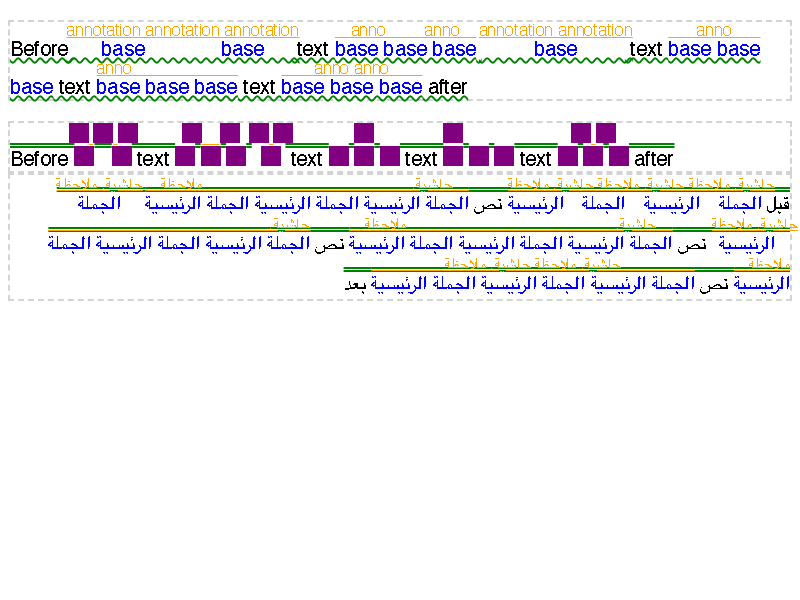
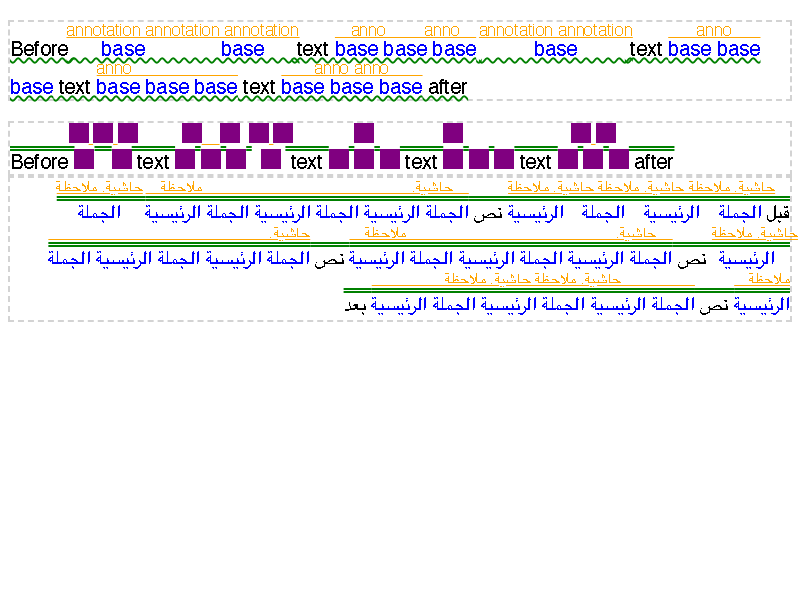
ruby: Fix text decorations overlapping annotations
An underline or overline of a ruby base was drawn at the edge of the
base's em box, which is exactly where the first annotation is placed, so
the two overlapped. It was most visible in vertical writing mode with
lang="ja", where text-underline-position resolves to "over" and an
underline is flipped onto the same side as the annotation.

css-ruby says the decoration is positioned between the base level and
any annotations on that side, so the annotation is what has to move.
RubyBlockPositionCalculator now starts the annotation stack at whichever
is farther from the baseline, the base's em box or the outer edge of the
base's own decorations. The extent comes from
ComputeUnderOverDecorationBounds(), which builds the real decoration
geometry so that wavy amplitude, double offsets and thickness are
accounted for rather than approximated.

The new behavior is behind the RubyTextDecorationSpacing runtime flag.

Each test pairs a transparent decoration with a mismatch reference
holding the same markup without it, so the only thing that can differ
between the two is the annotation position. Pinning the offsets instead
would assert placement that no specification defines.

Tests:
- fast/ruby/ruby-text-decoration-001.html (New, overline, over side)
- fast/ruby/ruby-text-decoration-002.html (New, overline, vertical-rl)
- fast/ruby/ruby-text-decoration-003.html (New, underline, under side)
- fast/ruby/ruby-text-decoration-004.html (New, both lines and sides)
[…]

Changed region(s): [[0.0, 0.24, 1.0, 0.54]]

diff --git a/web_tests/fast/ruby/ruby-text-decoration-004.html b/web_tests/fast/ruby/ruby-text-decoration-004.html
@@ -1,0 +1,24 @@
+<!DOCTYPE html>
+<meta charset="utf-8">
+<title>CSS Ruby Test: text decorations on a ruby base displace its annotations</title>
+<link rel="author" title="ChangSeok Oh" href="mailto:changseok@chromium.org">
+<link rel="help" href="https://drafts.csswg.org/css-ruby-1/#ruby-text-decoration">
+<meta name="assert" content="An underline and an overline of a ruby base are positioned between the base level and the annotations on their respective sides, so both annotations are displaced relative to an otherwise identical undecorated ruby. The decorations are transparent, so any rendering difference is the annotations having moved.">
+<script src="../../resources/ahem.js"></script>
+<style>
+.box { font: 40px/4 Ahem; }
+rt { font: 20px/1 Ahem; }
+.under-line {
+  text-decoration-line: underline;
+  text-decoration-color: transparent;
+  text-decoration-thickness: 20px;
+  text-underline-position: under;
+  text-underline-offset: 0px;
+}
+.over-line {
+  text-decoration-line: overline;
+  text-decoration-color: transparent;
+  text-decoration-thickness: 20px;
+}
+</style>
+<div class="box"><span class="under-line"><ruby class="over-line"><ruby style="ruby-position:under">AA<rt>BBBB</rt></ruby><rt>CCCC</rt></ruby></span></div>

diff --git a/web_tests/fast/ruby/ruby-text-decoration-002.html b/web_tests/fast/ruby/ruby-text-decoration-002.html
@@ -1,0 +1,22 @@
+<!DOCTYPE html>
+<meta charset="utf-8">
+<title>CSS Ruby Test: an overline on a ruby base displaces its annotation in vertical writing mode</title>
+<link rel="author" title="ChangSeok Oh" href="mailto:changseok@chromium.org">
+<link rel="help" href="https://drafts.csswg.org/css-ruby-1/#ruby-text-decoration">
+<meta name="assert" content="In vertical writing mode an overline on a ruby base is positioned between the base level and the annotation on that side, so the annotation is displaced relative to an otherwise identical undecorated ruby. The overline is transparent, so any rendering difference is the annotation having moved.">
+<script src="../../resources/ahem.js"></script>
+<style>
+.box {
+  writing-mode: vertical-rl;
+  text-orientation: upright;
+  width: 200px;
+  font: 40px/3 Ahem;
+}
+rt { font: 20px/1 Ahem; }
+.decorated {
+  text-decoration-line: overline;
+  text-decoration-color: transparent;
+  text-decoration-thickness: 20px;
+}
+</style>
+<div class="box"><ruby><span class="decorated">AA</span><rt>BBBB</rt></ruby></div>

diff --git a/web_tests/fast/ruby/ruby-text-decoration-003.html b/web_tests/fast/ruby/ruby-text-decoration-003.html
@@ -1,0 +1,20 @@
+<!DOCTYPE html>
+<meta charset="utf-8">
+<title>CSS Ruby Test: an underline on a ruby base displaces its under annotation</title>
+<link rel="author" title="ChangSeok Oh" href="mailto:changseok@chromium.org">
+<link rel="help" href="https://drafts.csswg.org/css-ruby-1/#ruby-text-decoration">
+<meta name="assert" content="An underline on a ruby base is positioned between the base level and the annotation on the under side, so the annotation is displaced relative to an otherwise identical undecorated ruby. The underline is transparent, so any rendering difference is the annotation having moved.">
+<script src="../../resources/ahem.js"></script>
+<style>
+.box { font: 40px/3 Ahem; }
+ruby { ruby-position: under; }
+rt { font: 20px/1 Ahem; }
+.decorated {
+  text-decoration-line: underline;
+  text-decoration-color: transparent;
+  text-decoration-thickness: 20px;
+  text-underline-position: under;
+  text-underline-offset: 0px;
+}
+</style>
+<div class="box"><ruby><span class="decorated">AA</span><rt>BBBB</rt></ruby></div>

diff --git a/web_tests/fast/ruby/ruby-text-decoration-001.html b/web_tests/fast/ruby/ruby-text-decoration-001.html
@@ -1,0 +1,17 @@
+<!DOCTYPE html>
+<meta charset="utf-8">
+<title>CSS Ruby Test: an overline on a ruby base displaces its annotation</title>
+<link rel="author" title="ChangSeok Oh" href="mailto:changseok@chromium.org">
+<link rel="help" href="https://drafts.csswg.org/css-ruby-1/#ruby-text-decoration">
+<meta name="assert" content="An overline on a ruby base is positioned between the base level and the annotation on that side, so the annotation is displaced relative to an otherwise identical undecorated ruby. The overline is transparent, so any rendering difference is the annotation having moved.">
+<script src="../../resources/ahem.js"></script>
+<style>
+.box { font: 40px/3 Ahem; }
+rt { font: 20px/1 Ahem; }
+.decorated {
+  text-decoration-line: overline;
+  text-decoration-color: transparent;
+  text-decoration-thickness: 20px;
+}
+</style>
+<div class="box"><ruby><span class="decorated">AA</span><rt>BBBB</rt></ruby></div>

diff --git a/web_tests/fast/ruby/ruby-text-decoration-002-expected-mismatch.html b/web_tests/fast/ruby/ruby-text-decoration-002-expected-mismatch.html
@@ -1,0 +1,15 @@
+<!DOCTYPE html>
+<meta charset="utf-8">
+<title>CSS Ruby Reference: a ruby base with no overline, vertical writing mode</title>
+<link rel="author" title="ChangSeok Oh" href="mailto:changseok@chromium.org">
+<script src="../../resources/ahem.js"></script>
+<style>
+.box {
+  writing-mode: vertical-rl;
+  text-orientation: upright;
+  width: 200px;
+  font: 40px/3 Ahem;
+}
+rt { font: 20px/1 Ahem; }
+</style>
+<div class="box"><ruby><span>AA</span><rt>BBBB</rt></ruby></div>

diff --git a/web_tests/fast/ruby/ruby-text-decoration-004-expected-mismatch.html b/web_tests/fast/ruby/ruby-text-decoration-004-expected-mismatch.html
@@ -1,0 +1,10 @@
+<!DOCTYPE html>
+<meta charset="utf-8">
+<title>CSS Ruby Reference: a ruby with annotations on both sides and no text decoration</title>
+<link rel="author" title="ChangSeok Oh" href="mailto:changseok@chromium.org">
+<script src="../../resources/ahem.js"></script>
+<style>
+.box { font: 40px/4 Ahem; }
+rt { font: 20px/1 Ahem; }
+</style>
+<div class="box"><span><ruby><ruby style="ruby-position:under">AA<rt>BBBB</rt></ruby><rt>CCCC</rt></ruby></span></div>

diff --git a/web_tests/fast/ruby/ruby-text-decoration-003-expected-mismatch.html b/web_tests/fast/ruby/ruby-text-decoration-003-expected-mismatch.html
@@ -1,0 +1,11 @@
+<!DOCTYPE html>
+<meta charset="utf-8">
+<title>CSS Ruby Reference: a ruby base with no underline, annotation under</title>
+<link rel="author" title="ChangSeok Oh" href="mailto:changseok@chromium.org">
+<script src="../../resources/ahem.js"></script>
+<style>
+.box { font: 40px/3 Ahem; }
+ruby { ruby-position: under; }
+rt { font: 20px/1 Ahem; }
+</style>
+<div class="box"><ruby><span>AA</span><rt>BBBB</rt></ruby></div>

diff --git a/web_tests/fast/ruby/ruby-text-decoration-001-expected-mismatch.html b/web_tests/fast/ruby/ruby-text-decoration-001-expected-mismatch.html
@@ -1,0 +1,10 @@
+<!DOCTYPE html>
+<meta charset="utf-8">
+<title>CSS Ruby Reference: a ruby base with no overline</title>
+<link rel="author" title="ChangSeok Oh" href="mailto:changseok@chromium.org">
+<script src="../../resources/ahem.js"></script>
+<style>
+.box { font: 40px/3 Ahem; }
+rt { font: 20px/1 Ahem; }
+</style>
+<div class="box"><ruby><span>AA</span><rt>BBBB</rt></ruby></div>

diff --git a/renderer/core/layout/inline/ruby_utils.cc b/renderer/core/layout/inline/ruby_utils.cc
@@ -17,6 +17,7 @@
 #include "third_party/blink/renderer/core/layout/inline/used_font.h"
 #include "third_party/blink/renderer/core/layout/layout_object_inlines.h"
 #include "third_party/blink/renderer/core/layout/physical_box_fragment.h"
+#include "third_party/blink/renderer/core/paint/text_decoration_info.h"
 #include "third_party/blink/renderer/platform/fonts/font_height.h"
 #include "third_party/blink/renderer/platform/fonts/shaping/han_kerning.h"
 #include "third_party/blink/renderer/platform/heap/collection_support/clear_collection_scope.h"
@@ -930,6 +931,46 @@ FontHeight ComputeLogicalLineEmHeight(const LogicalLineItems& line_items,
   return height;
 }
 
+FontHeight ComputeBaseDecorationExtent(const LogicalLineItems& line_items,
+                                       const Vector<wtf_size_t>& index_list) {
+  FontHeight extent;
+  auto accumulate = [&extent](const LogicalLineItem& item) {
+    if (!item.HasInFlowFragment()) {
+      return;
+    }
+
+    const auto* style = item.Style();
+    if (!style || !style->HasAppliedTextDecorations()) {
+      return;
+    }
+
+    const UsedFont used_font = item.GetUsedFont();
+    const std::optional<gfx::RectF> bounds = ComputeUnderOverDecorationBounds(
+        *style, used_font, item.rect.size.inline_size);
+    if (!bounds) {
+      return;
+    }
+
+    const LayoutUnit ascent = used_font.FixedAscent(style->GetFontBaseline());
+    extent.Unite(
+        FontHeight((ascent - LayoutUnit::FromFloatFloor(bounds->y()))
+                       .ClampNegativeToZero(),
+                   (LayoutUnit::FromFloatCeil(bounds->bottom()) - ascent)
+                       .ClampNegativeToZero()));
+  };
+
+  if (index_list.empty()) {
+    for (const auto& item : line_items) {
+      accumulate(item);
+    }
+  } else {
+    for (const auto index : index_list) {
+      accumulate(line_items[index]);
+    }
+  }
+  return extent;
+}
+
 // Computes the maximum emphasis mark heights (outsets) among all items in
 // `line_items` that have a text-emphasis mark applied.
 FontHeight ComputeEmphasisHeights(const LogicalLineItems& line_items) {
@@ -1246,12 +1287,25 @@ FontHeight RubyBlockPositionCalculator::ComputeRelativeOffsets(
     node_metrics = node.UpdateMetrics();
   }
 
+  FontHeight decoration_extent;
+  if (RuntimeEnabledFeatures::RubyTextDecorationSpacingEnabled() &&
+      node.IsBaseLevel()) {
+    if (!node.OverChildren().empty()) {
+      decoration_extent = ComputeBaseDecorationExtent(
+          base_line_items, node.OverChildren().front()->BaseIndexList());
+    } else if (!node.UnderChildren().empty()) {
+      decoration_extent = ComputeBaseDecorationExtent(
+          base_line_items, node.UnderChildren().front()->BaseIndexList());
+    }
+  }
+
   LayoutUnit subtree_ascent = node_metrics.ascent;
   LayoutUnit subtree_descent = node_metrics.descent;
   FontHeight node_emphasis = node.ComputeLevelEmphasisHeights(base_line_items);
 
   if (!node.OverChildren().empty()) {
-    LayoutUnit current_offset = -node_metrics.ascent;
+    LayoutUnit current_offset =
+        -std::max(node_metrics.ascent, decoration_extent.ascent);
     wtf_size_t i = 0;
 
     // 1. Own annotations
@@ -1306,7 +1360,8 @@ FontHeight RubyBlockPositionCalculator::ComputeRelativeOffsets(
   }
 
   if (!node.UnderChildren().empty()) {
-    LayoutUnit current_offset = node_metrics.descent;
+    LayoutUnit current_offset =
+        std::max(node_metrics.descent, decoration_extent.descent);
     wtf_size_t i = 0;
 
     // 1. Own annotations

diff --git a/renderer/core/paint/text_decoration_info.cc b/renderer/core/paint/text_decoration_info.cc
@@ -172,6 +172,49 @@ TextDecorationFragmentContext ComputeTextDecorationFragmentContext(
   return fragment_context;
 }
 
+std::optional<gfx::RectF> ComputeUnderOverDecorationBounds(
+    const ComputedStyle& style,
+    const UsedFont& font,
+    LayoutUnit inline_size) {
+  DCHECK(style.HasAppliedTextDecorations());
+  if (!font.PrimaryFont()) {
+    return std::nullopt;
+  }
+
+  std::optional<gfx::RectF> bounds;
+  auto unite = [&bounds](const gfx::RectF& rect) {
+    if (!bounds) {
+      bounds = rect;
+      return;
+    }
+    bounds->UnionEvenIfEmpty(rect);
+  };
+
+  TextDecorationInfo decoration_info(
+      LineRelativeOffset(LayoutUnit(), LayoutUnit()), inline_size, style, font,
+      /*inline_context=*/nullptr, TextDecorationLine::kNone, Color());
+  TextDecorationOffset decoration_offset(style);
+  for (wtf_size_t i = 0; i < decoration_info.AppliedDecorationCount(); ++i) {
+    const ResolvedDecoration decoration =
+        decoration_info.ResolveDecorationAt(i);
+    if (!decoration.HasFontData()) {
+      continue;
+    }
+
+    if (decoration.HasUnderline()) {
+      unite(DecorationLinePainter::Bounds(
+          decoration_info.ComputeUnderlineLineData(decoration,
+                                                   decoration_offset)));
+    }
+    if (decoration.HasOverline()) {
+      unite(
+          DecorationLinePainter::Bounds(decoration_info.ComputeOverlineLineData(
+              decoration, decoration_offset)));
+    }
+  }
+  return bounds;
+}
+
 TextDecorationInfo::TextDecorationInfo(
     LineRelativeOffset local_origin,
     LayoutUnit width,

diff --git a/renderer/core/paint/text_decoration_info.h b/renderer/core/paint/text_decoration_info.h
@@ -59,6 +59,11 @@ struct TextDecorationFragmentContext {
 CORE_EXPORT TextDecorationFragmentContext
 ComputeTextDecorationFragmentContext(const InlineCursor& cursor);
 
+CORE_EXPORT std::optional<gfx::RectF> ComputeUnderOverDecorationBounds(
+    const ComputedStyle& style,
+    const UsedFont& font,
+    LayoutUnit inline_size);
+
 // Holds the resolved metrics and styling for a single AppliedTextDecoration.
 // This immutable structure decouples index-specific properties from the overall
 // TextDecorationInfo context.
